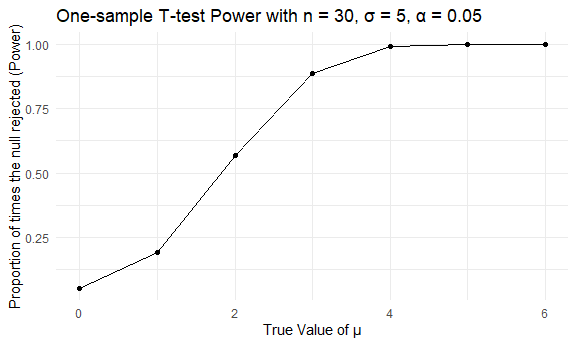
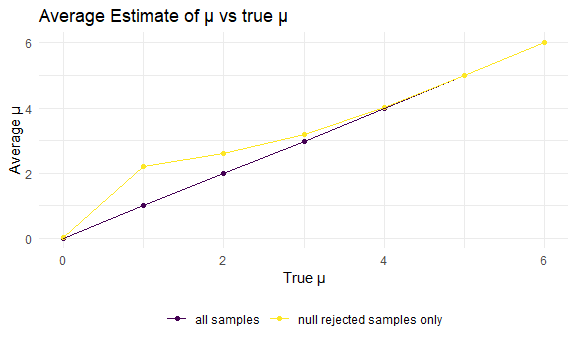
final revisions

diff --git a/HW5_cmh2275.md b/HW5_cmh2275.md
@@ -32,18 +32,6 @@ probability is close to, but not exactly, 100 percent.
 
 ## Problem 2
 
-``` r
-library(tidyverse)
-library(rvest)
-```
-
-    ## 
-    ## Attaching package: 'rvest'
-
-    ## The following object is masked from 'package:readr':
-    ## 
-    ##     guess_encoding
-
 Import & tidy
 
 ``` r
@@ -253,7 +241,7 @@ study_df|>
   )
 ```
 
-<img src="HW5_cmh2275_files/figure-gfm/unnamed-chunk-4-1.png" alt="" width="90%" />
+<img src="HW5_cmh2275_files/figure-gfm/unnamed-chunk-3-1.png" alt="" width="90%" />
 
 Observation values in the experimental group seemed to generally
 increase over weeks 1 to 8, while the control groups observations stated
@@ -263,8 +251,6 @@ experimental group.
 ## Problem 3
 
 ``` r
-library(tidyverse)
-
 set.seed(1)
 ```
 
@@ -317,7 +303,7 @@ ttest_sim_sum |>
   )
 ```
 
-<img src="HW5_cmh2275_files/figure-gfm/unnamed-chunk-9-1.png" alt="" width="90%" />
+<img src="HW5_cmh2275_files/figure-gfm/unnamed-chunk-8-1.png" alt="" width="90%" />
 
 Power increases as μ increases, steeply after μ=1 until about μ=4 at
 which point it increases to just about 1.00 for μ\<4.
@@ -348,7 +334,7 @@ ttest_sim_sum |>
   )
 ```
 
-<img src="HW5_cmh2275_files/figure-gfm/unnamed-chunk-10-1.png" alt="" width="90%" />
+<img src="HW5_cmh2275_files/figure-gfm/unnamed-chunk-9-1.png" alt="" width="90%" />
 
 The average of μ for samples where the null is rejected is not
 approximately equal to the true value of μ when μ is low, meaning when
